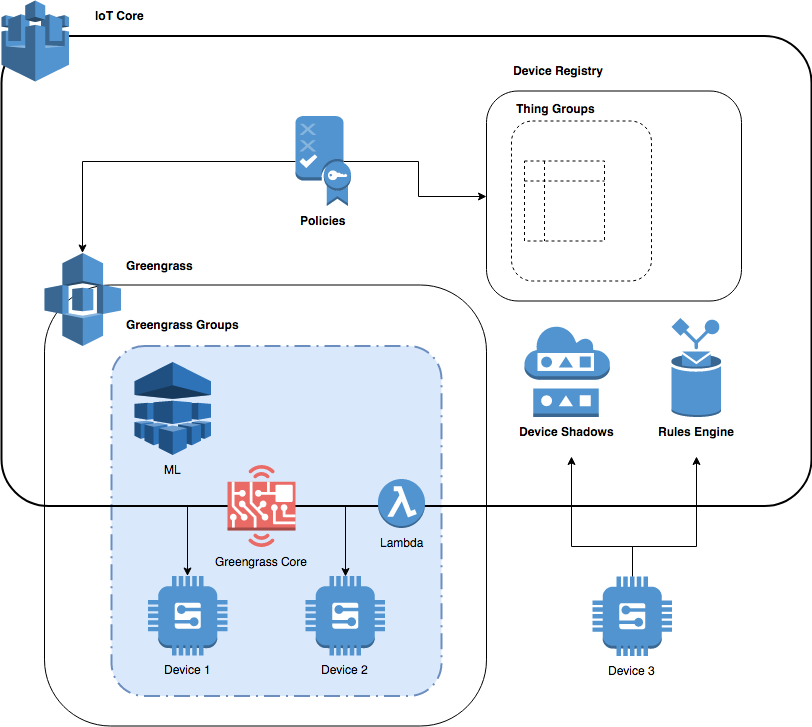
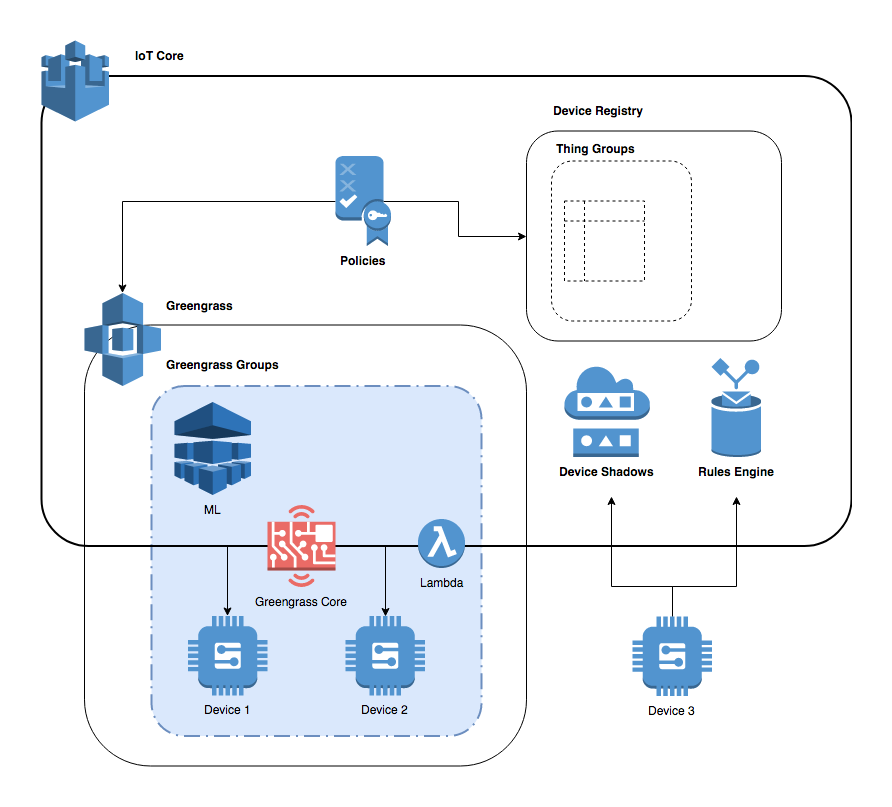
Added border to images, added new image

diff --git a/posts/exploring-iot-infrastructure-support-in-aws-part1.md b/posts/exploring-iot-infrastructure-support-in-aws-part1.md
@@ -28,11 +28,11 @@ The ESP device will be connected to a DHT11 temperature and humidity sensor send
 
 _The source code will be available in the part 2 blog post. Note: Resource usage on AWS will charge your account._
 
-# The Plan: Low-level meets High-level
+# The Experiment
 
-I started my experiment with a number of devices. This included a few variations of boards using the [Espressif](https://espressif.com/) ESP32, ESP16, ESP8266 chips and the more powerful [Raspberry Pi Zero](https://www.raspberrypi.org/products/raspberry-pi-zero/) board. These are well-known devices with great flexibility, portability and ease of development at low costs.
+I started my experiment with a few variations of boards using the [Espressif](https://espressif.com/) ESP32, ESP16, ESP8266 chips and the more powerful full board [Raspberry Pi Zero](https://www.raspberrypi.org/products/raspberry-pi-zero/). These are well-known devices with great flexibility, portability and ease of development at low costs.
 
-These devices need to be securely and reliably connected to a the network for data storage and updates. In IoT there are often requirements to work with low-level device sensor integrations, network management, synchronisation logic and memory management. All of this in the space of a tiny device with limited power, memory and storage! Abstracting away the low-level internals with a higher level language can potentially speed up development and experimentation. This is the reason I have decided to explore a number of higher level libraries and IoT based IDEs/tools such as [MongooseOS](https://mongoose-os.com) and [MicroPython](https://micropython.org/).
+To enable data storage and updates we need to be securely and reliably connected to a the network. In IoT there are often requirements to work with low-level device sensor integrations, network management, synchronisation logic and memory management. All of this in the space of a tiny device with limited power, memory and storage! Abstracting away the low-level internals with a higher level language can potentially speed up development. This is the reason I have decided to explore a number of higher level libraries and IoT based IDEs/tools such as [MongooseOS](https://mongoose-os.com) and [MicroPython](https://micropython.org/).
 
 # IoT Configuration
 
@@ -69,7 +69,7 @@ Before deploying we need to understand the AWS infrastructure and potential opti
   - Standard Greengrass Software (only supported on some devices) runs the Greengrass daemon
   - Will need to use other AWS SDKs if devices are not supported
 
-## IoT Devices at the edge (sensors and lower level hardware) 
+## IoT Devices at the edge (sensors and lower level hardware): 
 
 _Carries out upload and download of sensor data and config including OTA, Network, etc._
 
@@ -115,7 +115,7 @@ During our experiment `sendData` and `ledOn` will be used to managed individual 
 
 ## MongooseOS Device Code:
 
-A small [code snippet](https://github.com/mongoose-os-apps/example-dht-js/blob/master/fs/init.js) for reading the DHT11 humidity and temperature sensor. You can see the flexibility and power provided by MongooseOS utilising the specalised `load` and `Timer` functions specific to `mjs`.
+A small [code snippet](https://github.com/mongoose-os-apps/example-dht-js/blob/master/fs/init.js) for reading the DHT11 humidity and temperature sensor. You can see the flexibility and power provided by MongooseOS utilising the specialised `load` and `Timer` functions specific to `mjs`.
 
 _Note: MongooseOS uses an embedded C/C++ powered subset of JavaScript created by MongooseOS called [mjs](https://github.com/cesanta/mjs)_
 
@@ -151,30 +151,7 @@ Timer.set(2000, Timer.REPEAT, function() {
   MQTT.pub(sensorTopic, message, 1, false);
 
 }, null);
-```
-
-# How AWS Deals with the Challenges of IoT?
- 
-- Security and Privacy
-    - TLS mutual authentication
-    - Custom authorisers implemented in Lambda
-    - IAM roles per device and policy
-    - Certificate management across devices, revocation and expiry support
-- Connectivity 
-    - Greengrass for management of offline devices
-    - OTA Updates
-- Compatibility
-    - Generalised JSON storage structures
-    - SQL queries of messages
-    - Custom Lambda access to Volumes/Devices
-- Standardisation
-    - MQTT
-    - HTTP/WebSocket support
-- Intelligent Actions and Analysis
-    - Actions that interact with other AWS services eg. Lambda, S3, RDS
-    - Jobs creation
-    - Lambda function flexibility
-  
+```  
 # Initial Impressions
 
 - Lack of integration documentation
@@ -196,7 +173,9 @@ Timer.set(2000, Timer.REPEAT, function() {
 - It’s quite a lot more complicated than originally put forward by AWS and my preconceptions about the services.
     - I have yet to explore Cloudformation and Terraform deeply but I could imagine there might be some inefficiencies in stack deployment.
 
-# How Do Other Cloud Providers Compare?
+![Solving the challenges of IoT with AWS](https://raw.githubusercontent.com/ippontech/blog-usa/master/images/2018/07/solving_aws_challenges.png)
+
+# How do other Cloud providers compare?
 
  Provider  | Features | + | - | Support 
 ----- | ------- | --- | --- | ------
